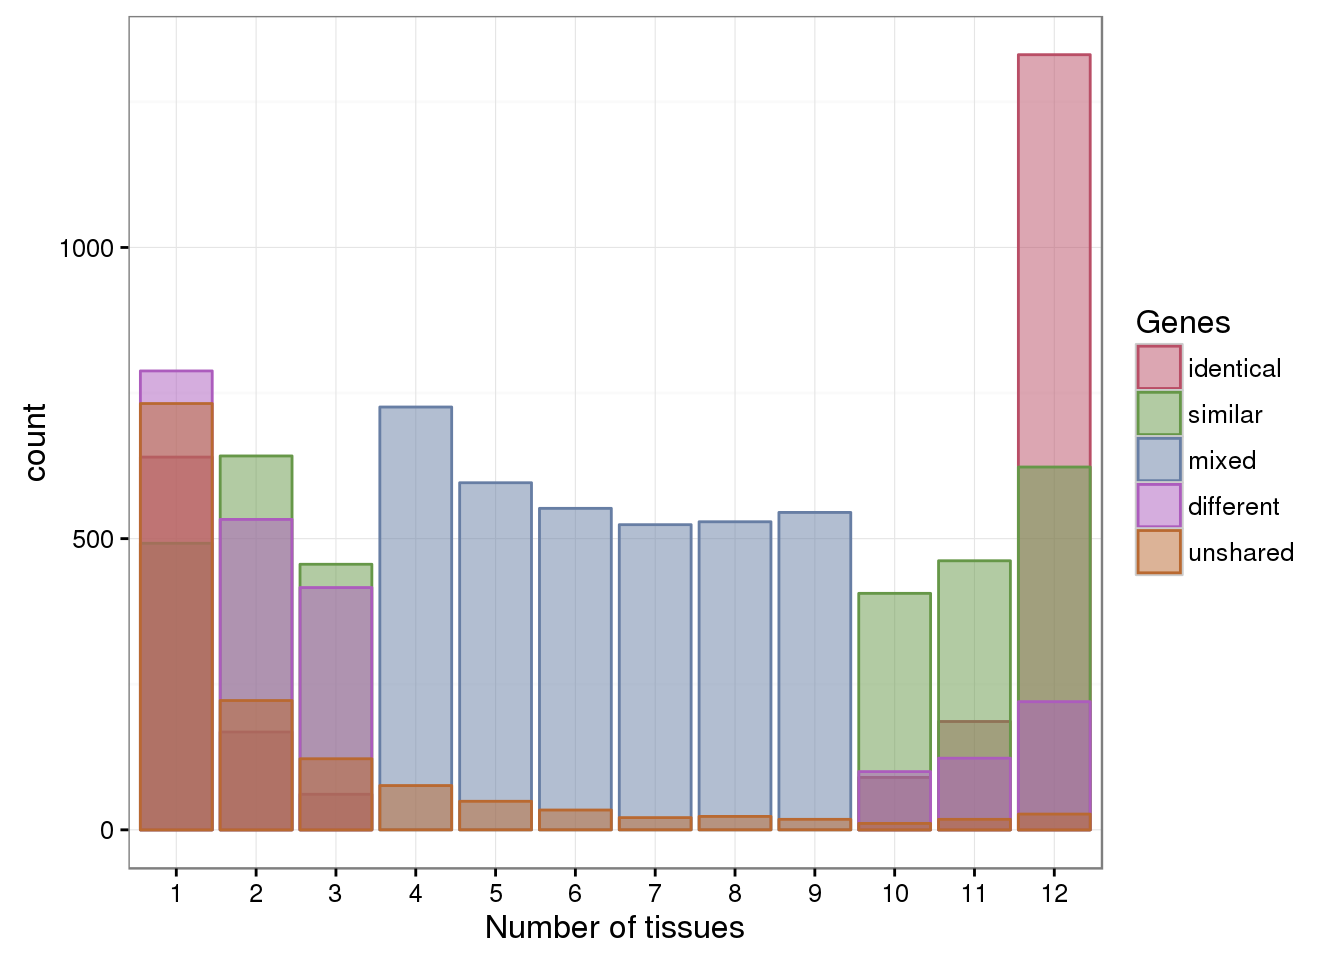
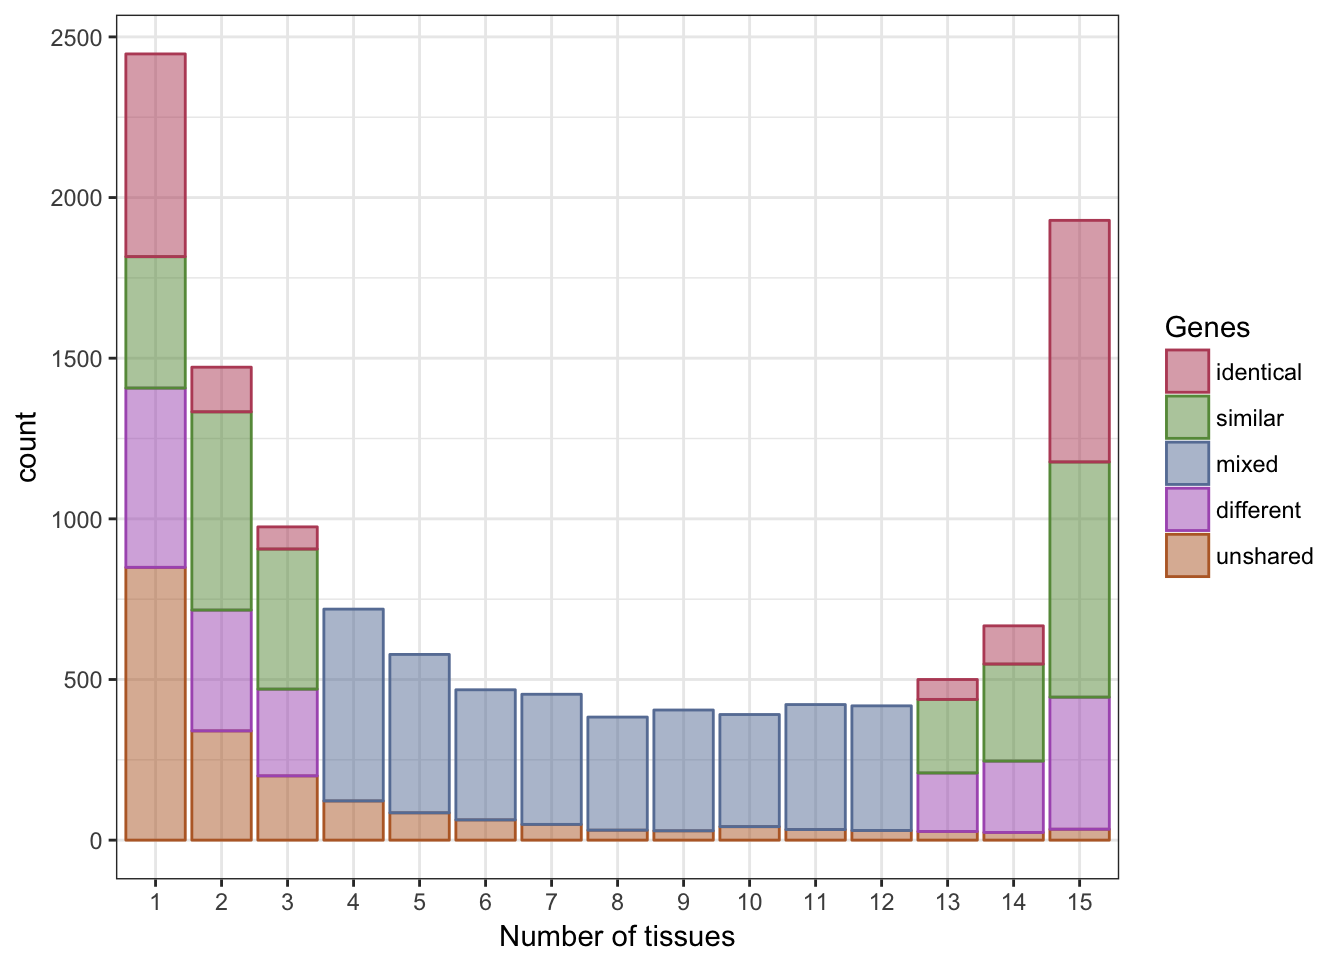
add to integration and small fixes

diff --git a/integration.tex b/integration.tex
@@ -733,56 +733,90 @@ of the \mRNAs\ is also bimodal.
     \textbf{C}| $5$ \glspl{FPKM}.}
 \end{figure}
 
-\subsubsection{Similarities of Expression breadth --- limited extend }
+\subsection{Few protein expression breadth can be predict by transcript
+expression breadth}
 
 \begin{figure}[!htbp]
-\includegraphics[scale=0.7]{integration/PandeyUhlenAnnoBreadth}\centering
-    \caption[placehold]{\label{fig:breadthColPandeyUhlen}\textbf{placehold}}
+\includegraphics[scale=0.30]{integration/PandeyUhlenAnnoBreadth}\centering
+    \caption[Proteome expression breadth compared to the transcriptomic one]{\label{fig:breadthColPandeyUhlen}\textbf{Proteome expression breadth
+    compared to the transcriptomic one.}The breadth of expression of each protein
+    is compared to the breadth of its corresponding \mRNA\. Several possible cases
+    are showed. Some proteins haven't been found in the transcriptomic samples,
+    they are \emph{unshared.}
+    The breadth can be \emph{identical}:the protein and the \mRNA\ are
+    expressed in the same number of tissues. The first and last three columns
+    have been grouped together. If a protein and its \mRNA\ are in the same group,
+    they are tagged as \emph{similar}. If the protein and the \mRNA\ are both
+    expressed between 4 to 9 tissues, they are described as \emph{mixed}. If the
+    pair is not belonging to any of the previous categories, it is then described
+    as \emph{different}.}
 \end{figure}
 
-\subsubsection{Tissue cluster same on Proteomic and Transcriptomic?}
+\TK{While the unique protein/\mRNA\ are not concluant; the next analysis was to
+determine if the closeness of two tissues are conserved between proteomic and
+transcriptomic tissues.}
 
-
+\subsection{Tissue clusters differs between Proteomic and Transcriptomic}
 \begin{figure}[!htbp]
 \includegraphics[scale=0.8]{integration/heatmapPairs}\centering
-    \caption[placehold]{\label{fig:bredthColPandeyUhlen}\textbf{placehold}}
+    \caption[Clusters of tissues based on number of proteins or \mRNAs\ shared
+    between a pair of tissues]{\label{fig:heatmapPairs}\textbf{Clusters of
+    tissues based on number of proteins or \mRNAs\ shared between a pair of
+    tissues.} For each pair of tissues, I have collected the number of proteins
+    (or \mRNAs) expressed only in that pair. That number is displayed in the
+    cell. The heatmap is a symmetric heatmap. Higher is the number of features
+    (proteins or \mRNAs) shared between two tissues and closer they are
+    considered. We can observe that the tissue presenting the most shared features
+    with the other tissues is \tissue{Testis}.}
 \end{figure}
+
+\TK{Comparison of the two trees}
 
 \begin{figure}[!htbp]
 \includegraphics[scale=0.7]{integration/consensusTree}\centering
-    \caption[placehold]{\label{fig:consensusTree}\textbf{placehold}}
+    \caption[Consensus tree between the cluster trees of the proteome and the
+    transcriptome]{\label{fig:consensusTree}\textbf{Consensus tree between the
+    cluster trees of the proteome and the transcriptome.}}
 \end{figure}
 
 It appears that a direct comparison of the proteins that have been identified
 with the identified \mRNAs\ (even with various thresholds) is not so meaningful.
 
-Instead of focusing of the uniqueness of a gene, the main issue here is to
+Instead of focusing of the uniqueness of a gene (or in a broader way, the breadth
+of expression),the main issue here is to
 determine what and when a gene is \emph{specific}. In fact, I can not use
-the same definition of detection like for the proteins. I then chose to focuse
+the same definition of detection like for the proteins. I then chose to focus
 on the \emph{Tissue-Specific} genes.
 
-\subsection{Tissue specific protein == tissue specific \textit{m}RNA?}
+\subsection{Tissue specific \textit{m}RNAs have significant overlap with tissue
+specific proteins}
 
 \begin{figure}[!htbp]
 \includegraphics[scale=0.7]{integration/RankSpe}\centering
-    \caption[placehold]{\label{fig:RankSpe}\textbf{placehold}}
+    \caption[Determination process of specific
+    mRNAs]{\label{fig:RankSpe}\textbf{Determination process of specific \mRNAs.}}
 \end{figure}
 
 
 \begin{figure}[!htbp]
 \includegraphics[scale=0.7]{integration/SpeJacquard/Heart}\centering
-    \caption[placehold]{\label{fig:ExJacquard}\textbf{placehold}}
+    \caption[Example of overlap of specific protein and specific
+    mRNAs for heart]{\label{fig:ExJacquard}\textbf{Example of overlap of
+    specific proteins and specific \mRNAs.}}
 \end{figure}
 
 
 \begin{figure}[!htbp]
 \includegraphics[scale=0.4]{integration/RatioJac}\centering
-    \caption[placehold]{\label{fig:RatioJac}\textbf{placehold}}
+    \caption[Heatmap of Jaquard indices]{\label{fig:RatioJac}\textbf{Heatmap of
+    Jaquard indices.}}
 \end{figure}
 
 \begin{figure}[!htbp]
 \includegraphics[scale=0.4]{integration/pJacquard}\centering
-    \caption[placehold]{\label{fig:pJacquard}\textbf{placehold}}
+    \caption[p-values associated to the Jaquard
+    indices]{\label{fig:pJacquard}\textbf{p-value associated to the Jaquard
+    indices.}They have been computed with hypergeometric test.}
 \end{figure}
 
 \subsection{Expression levels of mRNAs correlate with the expressed proteins}
@@ -808,21 +842,26 @@ on the \emph{Tissue-Specific} genes.
 
 \begin{figure}[!htbp]
 \includegraphics[scale=0.5]{integration/caseGene}\centering
-    \caption[placehold]{\label{fig:caseGene}\textbf{placehold}}
+    \caption[Different cases of correlation
+    protein/mRNA]{\label{fig:caseGene}\textbf{Different cases of correlation
+    protein/\mRNA.} The high correlated ones are enriched in pairs that are
+    Tissue-specific as \mRNA\ and protein.}
 \end{figure}
 
-\subsubsection{Tissue specific genes tend to correlate better}
+\subsection{Pairs composed of tissue specific proteins tend to correlate better}
+
+\begin{figure}[!htbp]
+    \includegraphics[scale=0.7]{integration/Spe_Cor}\centering
+    \caption[Cumul ratio of the specific proteins ordered on the correlation
+    of the mRNA/protein pairs across the 15
+    tissues]{\label{fig:Spe_Cor}\textbf{Cumul ratio of the specific proteins
+    ordered on the correlation of the mRNA/protein pairs across the 15 tissues.}}
+\end{figure}
+
 
 \TK{Can tissues correlations be improved by removing the lowly correlated genes? =>
 it is not always the same pairs that are in the same quadrant ==> no `argument''
 that would legitimate this. Ref:~\cref{fig:CorImprovable}}
-
-
-\begin{figure}[!htbp]
-    \includegraphics[scale=0.7]{integration/Spe_Cor}\centering
-    \caption[placehold]{\label{fig:Spe_Cor}\textbf{placehold}}
-\end{figure}
-
 
 
 \begin{figure}[!htbp]
@@ -837,26 +876,30 @@ that would legitimate this. Ref:~\cref{fig:CorImprovable}}
 \end{figure}
 
 
-
-
 \subsection{GO enrichment of the different categories}
 
 
 \begin{figure}[!htbp]
 \includegraphics[scale=0.7]{integration/Go_dotplot}\centering
-    \caption[placehold]{\label{fig:Go_dotplot}\textbf{placehold}}
+    \caption[GO enrichment analysis of the highest, lowest and Tissue
+    specific genes]{\label{fig:Go_dotplot}\textbf{GO enrichment analysis of the
+    highest, lowest and Tissue specific genes.}}
 \end{figure}
 
 
 \begin{figure}[!htbp]
 \includegraphics[scale=0.7]{integration/GO_cor_sorted}\centering
-    \caption[placehold]{\label{fig:GO_cor_sorted}\textbf{placehold}}
+    \caption[Correlation coefficient of the pairs for the GO
+    categories]{\label{fig:GO_cor_sorted}\textbf{Correlation coefficient of the
+    GO categories.}}
 \end{figure}
 
 
 \begin{figure}[!htbp]
 \includegraphics[scale=0.7]{integration/OtherGroups}\centering
-    \caption[placehold]{\label{fig:GO_sub_groups}\textbf{placehold}}
+    \caption[Examples of particular GO
+    categories]{\label{fig:GO_sub_groups}\textbf{Examples of particular GO
+    categories.}}
 \end{figure}
 
 %\begin{figure}
@@ -879,19 +922,6 @@ that would legitimate this. Ref:~\cref{fig:CorImprovable}}
 
 \clearpage\
 
-\begin{itemize}
-\item Ranking the expression
-\item Tissue specific genes/proteins – how consistent they are in RNA and proteomics?
-\item Gene correlation
-\item Correlated and uncorrelated genes, what is specific to each group
-    functional groups of genes
-\item screen shots of the web-applications
-\end{itemize}
-
-
-
-\subsection{Specificity,House-keeping genes}
-\subsection{Genes functionality impact}
 
 \subsection{Annotation + Methodology impact}
 \TK{comparison with the Scientific report paper}

diff --git a/thesis.tex b/thesis.tex
@@ -1,5 +1,5 @@
 \RequirePackage[l2tabu,orthodox]{nag}
-\documentclass[a4paper,
+\documentclass[a4paper
 ,12pt
 ,headinclude
 ,footinclude
@@ -38,8 +38,8 @@ available high-throughput transcriptomic and proteomic data}
   {\footnotesize Licensed under Creative Commons Attribution International (CC BY) 4.0}
   \\[2mm]
   \href{http://creativecommons.org/licenses/by/4.0/}{%
-    \raisebox{-0.25em}{\includegraphics[width=1em]{cc}
-      \includegraphics[width=1em]{by}}}}
+    \raisebox{-0.25em}{\includegraphics[width=1em]{cc.pdf}
+      \includegraphics[width=1em]{by.pdf}}}}
 
 %\addtokomafont{section}{\Large}
 %\addtokomafont{subsection}{\large}

diff --git a/config.tex b/config.tex
@@ -73,6 +73,7 @@
 
 
 \setmainfont[Mapping=tex-text, Numbers=OldStyle]{TeX Gyre Pagella}
+%\setmainfont[Ligatures={NoRequired,NoCommon,NoContextual}]{Font Name}
 %\setsansfont[Mapping=tex-text, Numbers=OldStyle]{Droid Sans}
 %\setmonofont{Droid Sans Mono}
 
@@ -125,6 +126,7 @@
 \setstretch{1.1}
 \graphicspath{{gfx/}} %as instructed in classicthesis
 
+%\graphicspath{{gfxRasterOnly/}} %as instructed in classicthesis
 % For debugging: showframe=true to see the layout frames
 \geometry{bottom=65mm,showframe=false,margin=35mm,marginparsep=3mm,marginparwidth=20mm}
 

diff --git a/additional.tex b/additional.tex
@@ -1,4 +1,4 @@
-\chapter{Additional}
+\chapter*{Additional}
 
 
 These will be put at different places in the previous chapters.
